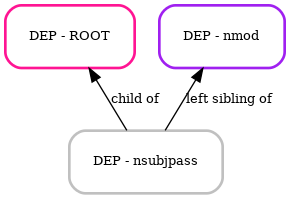
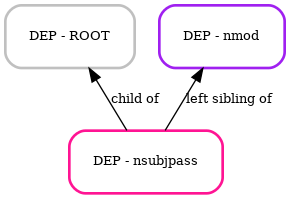
Fix incorrect token_labels_depth_order

diff --git a/test/test_role_pattern.py b/test/test_role_pattern.py
@@ -275,9 +275,7 @@ cases = [
             {
                 'doc': doc16,
                 'match': {
-                    'ant': idxs_to_tokens(
-                        doc16, [1]
-                    ),  # [coffee]
+                    'ant': idxs_to_tokens(doc16, [1]),  # [coffee]
                     'cons': idxs_to_tokens(doc16, [4]),  # [alertness]
                 },
             },
@@ -314,7 +312,7 @@ cases = [
                     'ant': idxs_to_tokens(doc21, [4]),  # [L-theanine]
                     'cons': idxs_to_tokens(doc21, [8]),  # [placebo]
                 },
-            },
+            }
         ],
     },
 ]
@@ -354,9 +352,7 @@ def test_with_custom_extensions():
     match_example = case['training_example']['match']
     # pprint(match_example)
     role_pattern_builder = RolePatternBuilder(feature_dict)
-    role_pattern = role_pattern_builder.build(
-        match_example, validate_pattern=False
-    )
+    role_pattern = role_pattern_builder.build(match_example, validate_pattern=False)
     matches = role_pattern.match(doc)
     assert match_example in matches, 'does not match example'
     # print('passed')
@@ -406,6 +402,15 @@ def test_refine_pattern():
                 assert pos_match in matches
             for neg_match in neg_matches:
                 assert neg_match not in matches
+            break  # Take only the first
+        vis_outpath = 'examples/refined_pattern_vis/pattern_{0}_original.png'.format(
+            case_i
+        )
+        pattern.write_vis(vis_outpath)
+        vis_outpath = 'examples/refined_pattern_vis/pattern_{0}_refined.png'.format(
+            case_i
+        )
+        role_pattern_variant.write_vis(vis_outpath)
 
 
 def test_validate_features():

diff --git a/role_pattern_nlp/mutate.py b/role_pattern_nlp/mutate.py
@@ -49,6 +49,7 @@ def yield_tree_level_pattern_variants(role_pattern, training_match, feature_dict
     extended_match_tokens = spacy_pattern_builder.yield_extended_trees(match_tokens)
     doc = util.doc_from_match(training_match)
     for match_tokens in extended_match_tokens:
+        match_tokens = sorted(match_tokens, key=lambda token: token.i)
         token_labels = role_pattern_builder.build_pattern_label_list(
             match_tokens, training_match
         )
@@ -60,7 +61,13 @@ def yield_tree_level_pattern_variants(role_pattern, training_match, feature_dict
         )
         assert len(token_labels) == len(role_pattern.token_labels) + 1
         role_pattern_variant = RolePattern(dependency_pattern_variant, token_labels)
-        role_pattern_variant.token_labels_depth_order = token_labels
+        match_tokens_depth_order = spacy_pattern_builder.util.sort_by_depth(
+            match_tokens
+        )  # Should be same order as the dependency pattern
+        token_labels_depth_order = role_pattern_builder.build_pattern_label_list(
+            match_tokens_depth_order, training_match
+        )
+        role_pattern_variant.token_labels_depth_order = token_labels_depth_order
         role_pattern_variant.builder = role_pattern.builder
         new_training_match = RolePatternMatch(training_match)
         new_training_match.match_tokens = match_tokens

diff --git a/role_pattern_nlp/role_pattern_builder.py b/role_pattern_nlp/role_pattern_builder.py
@@ -211,7 +211,7 @@ def build_role_pattern(
 
 
 def build_pattern_label_list(match_tokens, match_example):
-    match_tokens = sorted(match_tokens, key=lambda t: t.i)
+    # match_tokens = sorted(match_tokens, key=lambda t: t.i)
     match_token_labels = []
     for w in match_tokens:
         label = None
